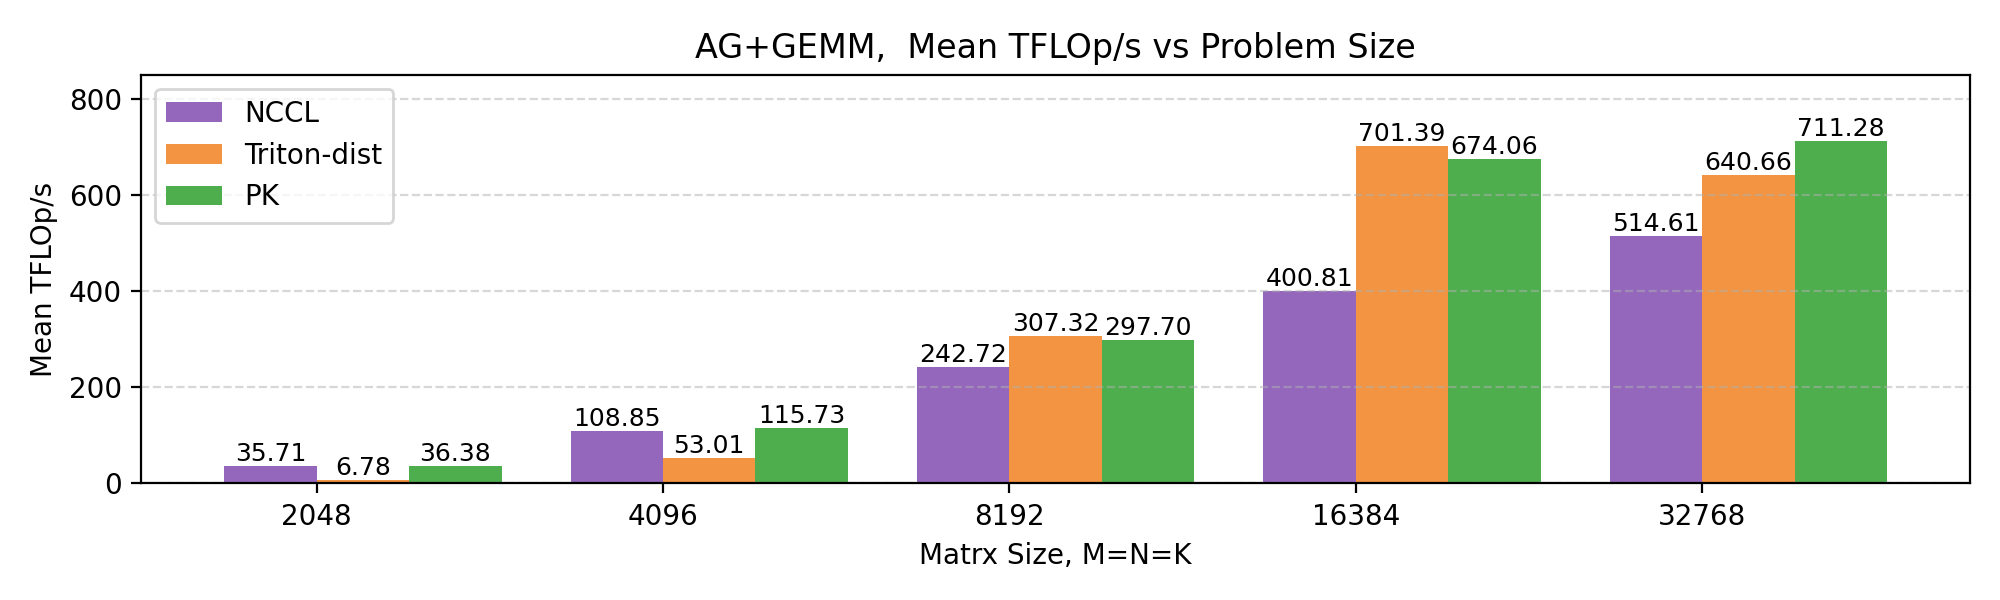
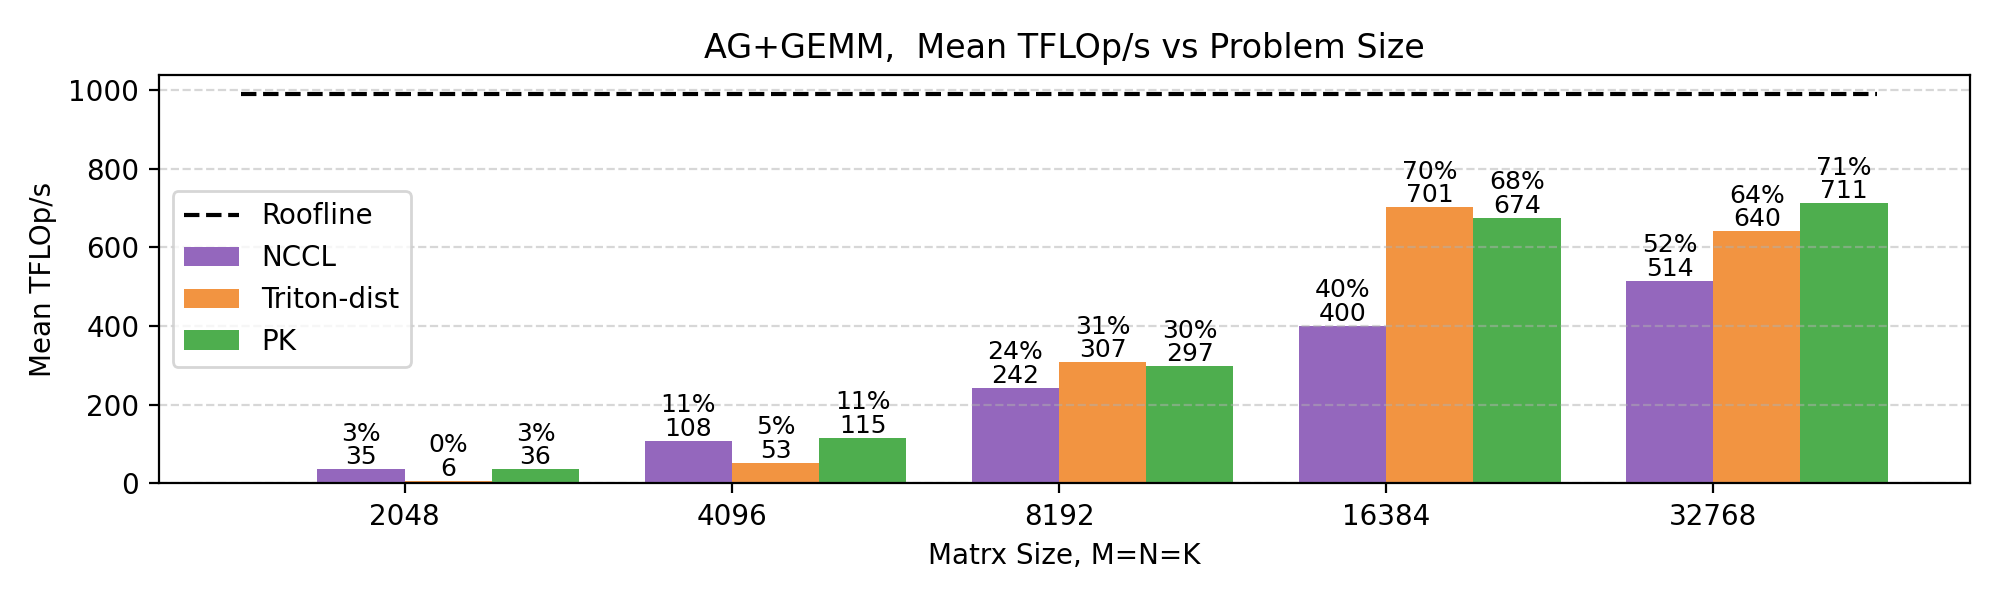
ag-gemm breakdown/roofline

diff --git a/kernels/parallel/ag_matmul/out_parse/plot_bar.py b/kernels/parallel/ag_matmul/out_parse/plot_bar.py
@@ -86,12 +86,22 @@ def main():
             plt.text(
                 x_pos,
                 y_val,
-                f"{y_val:.2f}",
+                f"{int(y_val)}",
                 ha="center",
                 va="bottom",
                 fontsize=9
             )
-
+            plt.text(
+                x_pos,
+                y_val + 60,
+                f"{int(100 * y_val / 989)}%",
+                ha="center",
+                va="bottom",
+                fontsize=9
+            )
+    roofline_x = [i - 0.5 for i in range(len(sizes) + 1)]
+    y = [989 for _ in roofline_x]
+    plt.plot(roofline_x, y, color="black", linestyle="--", label="Roofline")
     plt.xticks(list(x), [str(s) for s in sizes])
     plt.xlabel("Matrx Size, M=N=K")
     plt.ylabel(ylabel)
@@ -100,7 +110,7 @@ def main():
     )
     plt.legend()
     plt.grid(axis="y", linestyle="--", alpha=0.5)
-    plt.ylim([0, 850])
+    # plt.ylim([0, 850])
     plt.tight_layout()
     plt.savefig(f"bar_plot.png", dpi=200)
     plt.close()
